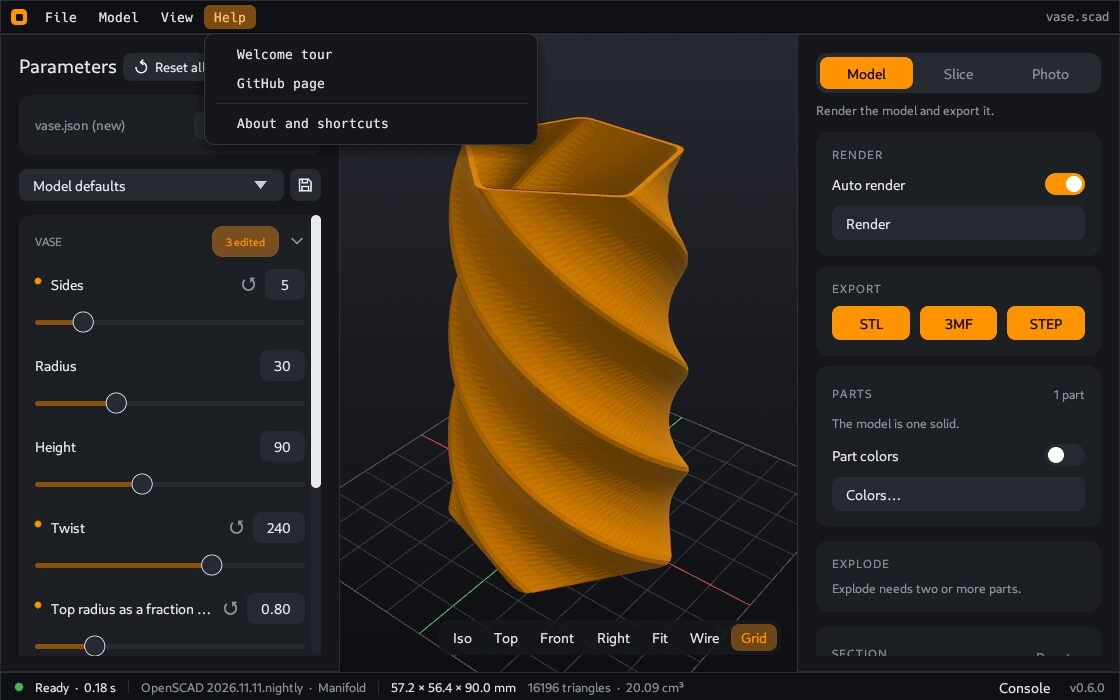
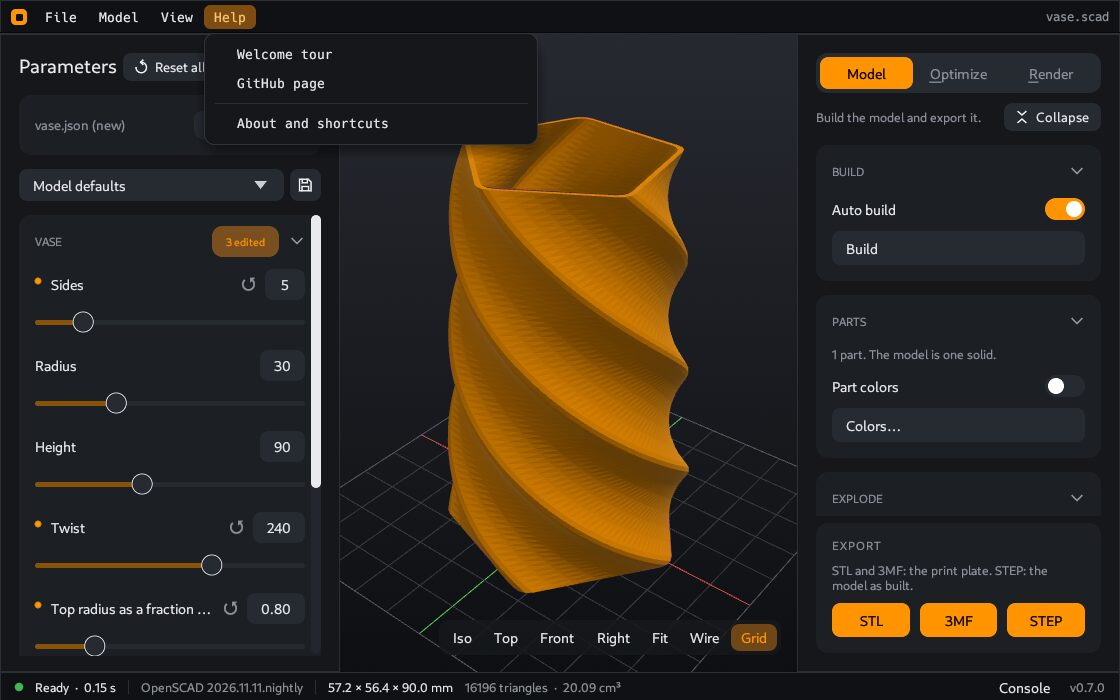
Tour: texts and screenshots of 0.7.0
- Step texts: the Export card in each tab, STL and 3MF write the print
  plate, more plates, "Render a photo", the default print area in the
  settings.
- tour-shots.sh: the Optimize step shows the desk dock plate with the
  fixes, Auto clips and the split plate. The click on the MCP server
  page moves down, because the Printer page is above it now.
- New screenshots in assets/tour/.

diff --git a/src/app/tour.rs b/src/app/tour.rs
@@ -66,11 +66,11 @@ const STEPS: [Step; 10] = [
     },
     Step {
         title: "Check and export",
-        intro: "The Model tab shows the mesh data and the export buttons.",
+        intro: "The status bar and the Mesh card of the Model tab show the mesh data. The Export card is at the bottom of each tab.",
         points: &[
             "Check the size, volume, triangles and open edges.",
             "Back faces show in purple. Press W for the wireframe.",
-            "Export binary STL, 3MF with the parameters, or STEP AP214.",
+            "STL and 3MF write the print plate of the Optimize tab. STEP writes the model as built.",
             "A model with a cocad_part list shows each part in its color and exports a multicolor 3MF.",
         ],
         image: shot!("4-export"),
@@ -90,7 +90,7 @@ const STEPS: [Step; 10] = [
         title: "Optimize for the printer",
         intro: "The Optimize tab puts the parts on the bed of your printer. Press O to open it.",
         points: &[
-            "Same parts show as one row with a count. Parts that do not fit go to more plates.",
+            "Same parts show as one row with a count. When the parts do not fit on one plate, CoCAD fills more plates.",
             "Custom orientation puts a part on its best face, or on a face that you click.",
             "Turn on print fixes: teardrop holes, bridges, bed chamfer and brims.",
             "Split a part that is too large. The Check card lists the problems.",
@@ -99,7 +99,7 @@ const STEPS: [Step; 10] = [
         image: shot!("6-slice"),
     },
     Step {
-        title: "Photo render",
+        title: "Render a photo",
         intro: "The Render tab path-traces the current view on all CPU cores. Press R to open it.",
         points: &[
             "The image gets cleaner with each sample.",
@@ -130,8 +130,8 @@ const STEPS: [Step; 10] = [
         title: "Settings and shortcuts",
         intro: "You are ready to start.",
         points: &[
-            "File > Settings sets the theme, auto save of sets, the OpenSCAD binary and your \
-             privacy choices.",
+            "File > Settings sets the theme, auto save of sets, the OpenSCAD binary, the default \
+             print area and your privacy choices.",
             "CoCAD needs an OpenSCAD development snapshot with the Manifold backend.",
             "Help > About and shortcuts lists all keys.",
             "The CLI exports, slices and makes photos without the window. Run cocad --help.",
